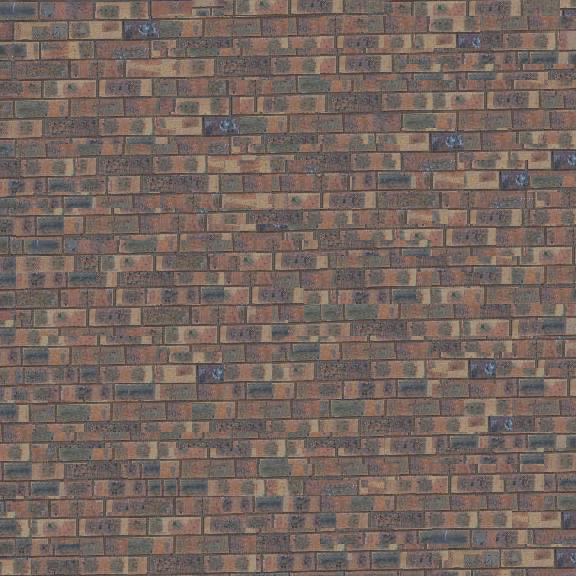
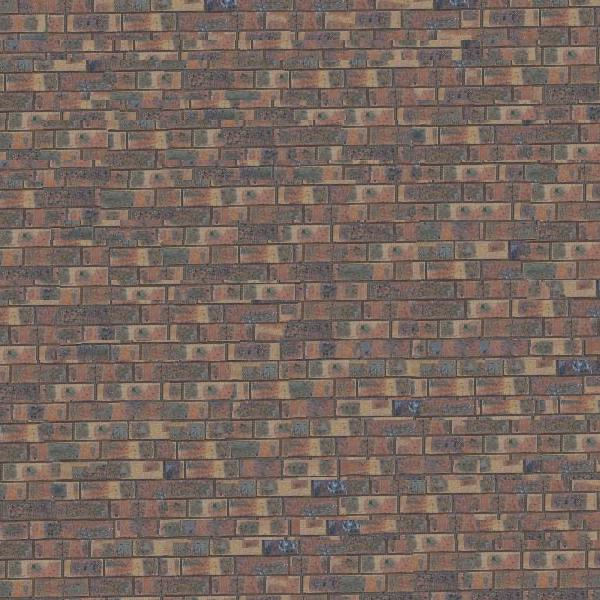
refactor -> exterior overlaps

diff --git a/main.py b/main.py
@@ -36,10 +36,10 @@ except ImportError:
 DEFAULTS = {
     'texture':       'in/bricks_small.jpg',
     'target':        'in/owen_small.jpg',
-    'outsize':       300,
-    'patchsize':     30,
-    'overlap':       10,
-    'err_threshold': 0.10,
+    'outsize':       600,
+    'patchsize':     60,
+    'overlap':       20,
+    'err_threshold': 0.15,
     'n':             8,
     'outdir':        'out',
 }
@@ -88,72 +88,72 @@ def similarity(img, template, method='cv2'):
         return similarity_cv2(img, template)
     return error_ssd(img, template) * -1.0
 
+def process_similarity_map(simi_map, err_threshold):
+    """Takes a similarity map and an error threshold
+    and returns only the indices in SIMI_MAP whose values are below the threshold.
+    If there are no such indices, returns the indices corresponding to the maximum value in SIMI_MAP.
+    Indices will be returned as a list of (y, x) tuples.
+    """
+    _min, _max = np.min(simi_map), np.max(simi_map)
+    p_choices = np.where(simi_map >= _min + (1.0 - err_threshold) * (_max - _min))
+    if len(p_choices[0]) == 0:
+        return [np.unravel_index(np.argmax(simi_map), simi_map.shape)]
+    return zip(*p_choices)
+
 def select_patch(img, img_out, pos_y, pos_x,
                  patch_height, patch_width, overlap_height, overlap_width, err_threshold):
     """Selects a patch from IMG to be placed in IMG_OUT with the top left corner at (POS_Y, POS_X).
     Returns the patch as a (y, x) tuple representing the position of its top left corner in IMG.
     """
     img_height, img_width, nc = img.shape
-    out_height, out_width, _ = img_out.shape
     if (pos_y, pos_x) == (0, 0):
         sel_y = int(np.random.random_sample() * (img_height - patch_height))
         sel_x = int(np.random.random_sample() * (img_width - patch_width))
         return sel_y, sel_x
-    elif pos_y == 0:
-        template = img_out[pos_y:pos_y + patch_height, pos_x:pos_x + overlap_width]
-        simi_map = similarity(img[:-patch_height, :-patch_width+overlap_width], template, method='cv2')
-    elif pos_x == 0:
-        template = img_out[pos_y:pos_y + overlap_height, pos_x:pos_x + patch_width]
-        simi_map = similarity(img[:-patch_height+overlap_height, :-patch_width], template, method='cv2')
-    else:
-        template = img_out[pos_y:pos_y + patch_height, pos_x:pos_x + patch_width]
-        simi_map = similarity(img[:-patch_height+overlap_height, :-patch_width+overlap_width], template, method='ssd')
-    _min, _max = np.min(simi_map), np.max(simi_map)
-    pchoices = np.where(simi_map >= _min + (1.0 - err_threshold) * (_max - _min))
-    if len(pchoices[0]) == 0:
-        return np.unravel_index(np.argmax(simi_map), simi_map.shape)
-    return np.random.choice(pchoices[0]), np.random.choice(pchoices[1])
-
-def cut(patch, overlapped, pos_y, pos_x, overlap_height, overlap_width):
-    """Calculates the minimum error boundary cut through the overlap region(s).
-    Then (using that information) cuts the patch, joins it with the overlapped image, and returns the amalgamation.
-    (POS_Y, POS_X) should be the top left corner of OVERLAPPED in the full output image.
-    """
-    def _vertical_cut(_patch, _overlapped):
-        err_surface = np.sum((_patch - _overlapped) ** 2, axis=2)
-        cum_err_surface = np.copy(err_surface)
-        height, width, _ = _patch.shape
-        for y in range(1, height):
-            for x in range(width):
-                cum_err_surface[y, x] = err_surface[y, x] + np.min((cum_err_surface[y - 1, max(x - 1, 0)],
-                                                                    cum_err_surface[y - 1, x],
-                                                                    cum_err_surface[y - 1, min(x + 1, width - 1)]))
-        x = None
-        result = np.zeros_like(_patch)
-        for y in reversed(range(height)):
-            if x is None:
-                x = np.argmin(cum_err_surface[y])
-            else:
-                err_options = (
-                    float('inf') if x - 1 < 0 else cum_err_surface[y, x - 1],
-                    cum_err_surface[y, x],
-                    float('inf') if x + 1 >= width else cum_err_surface[y, x + 1],
-                )
-                x += np.argmin(err_options) - 1
-            result[y, :x] = _overlapped[y, :x]
-            result[y, x:] = _patch[y, x:]
-        result[result == 0] = _patch[result == 0]
-        return result
-    if pos_x > 0:
-        # Vertical cut
-        x_patch, x_overlapped = patch[:, :overlap_width], overlapped[:, :overlap_width]
-        patch[:, :overlap_width] = _vertical_cut(x_patch, x_overlapped)
+    u_choices = set()
     if pos_y > 0:
-        # Horizontal cut
-        y_patch, y_overlapped = patch[:overlap_height], overlapped[:overlap_height]
-        ypt, yot = np.fliplr(y_patch.transpose(1, 0, 2)), np.fliplr(y_overlapped.transpose(1, 0, 2))
-        patch[:overlap_height] = np.fliplr(_vertical_cut(ypt, yot)).transpose(1, 0, 2)
-    return patch
+        template = img_out[pos_y-overlap_height:pos_y, pos_x:pos_x + patch_width]
+        simi_map = similarity(img[:-patch_height - overlap_height, overlap_width:-patch_width], template, method='cv2')
+        u_choices = set([(y + overlap_height, x + overlap_width)
+                         for y, x in process_similarity_map(simi_map, err_threshold)])
+    l_choices = set()
+    if pos_x > 0:
+        template = img_out[pos_y:pos_y + patch_height, pos_x - overlap_width:pos_x]
+        simi_map = similarity(img[overlap_height:-patch_height, :-patch_width - overlap_width], template, method='cv2')
+        l_choices = set([(y + overlap_width, x + overlap_width)
+                         for y, x in process_similarity_map(simi_map, err_threshold)])
+    choices = u_choices & l_choices
+    if len(choices) == 0:
+        choices = u_choices | l_choices
+    return tuple(choices)[np.random.randint(len(choices))]
+
+def vcut(patch, overlapped):
+    """Calculates the minimum error VERTICAL boundary cut through the overlapped region.
+    Then (using that information) cuts the patch, joins it with the overlapped image, and returns the amalgamation.
+    """
+    err_surface = np.sum((patch - overlapped) ** 2, axis=2)
+    cum_err_surface = np.copy(err_surface)
+    height, width, _ = patch.shape
+    for y in range(1, height):
+        for x in range(width):
+            cum_err_surface[y, x] = err_surface[y, x] + np.min((cum_err_surface[y - 1, max(x - 1, 0)],
+                                                                cum_err_surface[y - 1, x],
+                                                                cum_err_surface[y - 1, min(x + 1, width - 1)]))
+    x = None
+    result = np.zeros_like(patch)
+    for y in reversed(range(height)):
+        if x is None:
+            x = np.argmin(cum_err_surface[y])
+        else:
+            err_options = (
+                float('inf') if x - 1 < 0 else cum_err_surface[y, x - 1],
+                cum_err_surface[y, x],
+                float('inf') if x + 1 >= width else cum_err_surface[y, x + 1],
+            )
+            x += np.argmin(err_options) - 1
+        result[y, :x] = overlapped[y, :x]
+        result[y, x:] = patch[y, x:]
+    return result
 
 ##################
 # MAIN FUNCTIONS #
@@ -165,14 +165,23 @@ def synthesize(texture_path, out_height, out_width, patch_height, patch_width,
     img = sk.img_as_float(img).astype(np.float32)
     img_height, img_width, nc = img.shape
     img_out = np.zeros((out_height, out_width, nc)).astype(np.float32)
-    for y in range(0, out_height, patch_height - overlap_height):
-        for x in range(0, out_width, patch_width - overlap_width):
+    for y in range(0, out_height, patch_height):
+        for x in range(0, out_width, patch_width):
             py, px = select_patch(img, img_out, y, x, patch_height, patch_width,
                                   overlap_height, overlap_width, err_threshold)
-            patch = img[py:py + patch_height, px:px + patch_width]
-            _dy, _dx, _ = np.minimum(img_out[y:y + patch_height, x:x + patch_width].shape, patch.shape)
-            img_out[y:y + _dy, x:x + _dx] = cut(patch[:_dy, :_dx], img_out[y:y + _dy, x:x + _dx],
-                                                y, x, overlap_height, overlap_width)
+            dy, dx, _ = img_out[y:y + patch_height, x:x + patch_width].shape  # account for overflow
+            img_out[y:y + dy, x:x + dx] = img[py:py + dy, px:px + dx]
+            if y > 0:
+                # Horizontal cut
+                y_patch = img[py - overlap_height:py, px:px + dx]
+                y_overlapped = img_out[y - overlap_height:y, x:x + dx]
+                ypt, yot = np.fliplr(y_patch.transpose(1, 0, 2)), np.fliplr(y_overlapped.transpose(1, 0, 2))
+                img_out[y - overlap_height:y, x:x + dx] = np.fliplr(vcut(ypt, yot)).transpose(1, 0, 2)
+            if x > 0:
+                # Vertical cut
+                x_patch = img[py:py + dy, px - overlap_width:px]
+                x_overlapped = img_out[y:y + dy, x - overlap_width:x]
+                img_out[y:y + dy, x - overlap_width:x] = vcut(x_patch, x_overlapped)
         print('%03d / %d ...' % (y, out_height))
     skio.imshow(img_out)
     skio.show()
@@ -221,6 +230,9 @@ if __name__ == '__main__':
         args.err_threshold = DEFAULTS['err_threshold']
     if not args.outdir:
         args.outdir = DEFAULTS['outdir']
+
+    assert args.overlap_height < args.patch_height, 'overlap must be contained within patch height'
+    assert args.overlap_width < args.patch_width,   'overlap must be contained within patch width'
 
     if args.target:
         # Texture transfer
